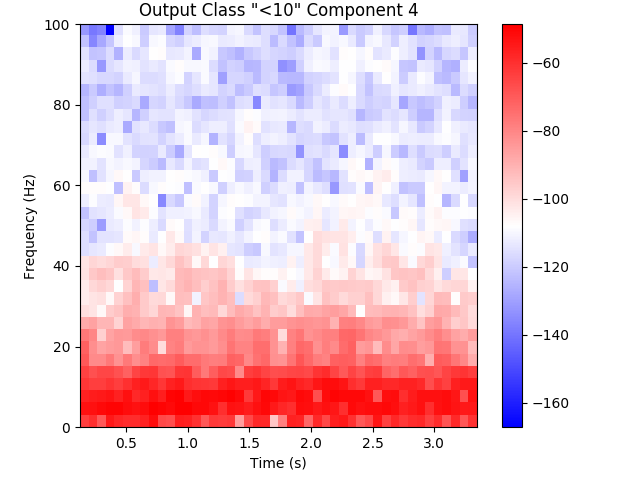
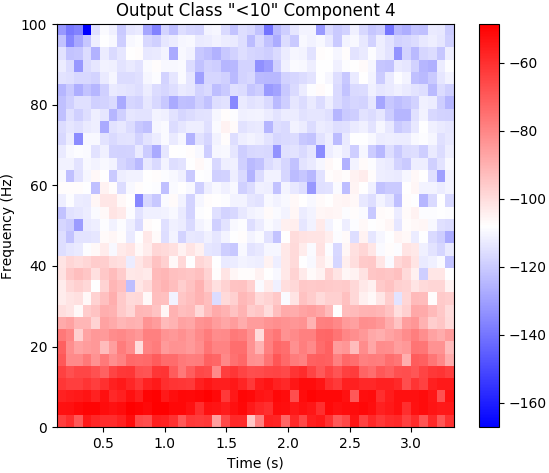
Everything but the font size of Fig 4

diff --git a/papers/nature_sci_reports/sci_reports.tex b/papers/nature_sci_reports/sci_reports.tex
@@ -42,7 +42,7 @@ Machine learning (ML) has been used in brain computer interfaces (BCIs), includi
 An advantage of this approach is that expert knowledge about the data can help circumvent relatively poor signal quality and encourage ML models to distinguish between classes using established correlates. However, this comes with potential bias of expert knowledge, and the underlying assumptions it may reinforce. In contrast, `deep' ML models can achieve many of the stages of the pipeline intrinsically, and consider potentially unknown correlates. We propose two new DNN architectures, the first labelled SCNN is a mainly convolutional neural network (CNN), and the second labelled Ra-SCNN is an augmented SCNN network that employs a recurrent layer and attention mechanism. They are both outlined in figure \ref{fig:archs}, and detailed below. Both networks are trained with raw single trials, that exploit the pipeline typically used for BCIs. Here they are trained to predict the age of normally developing (in terms of speech abilities) children aged 4-18, performing at least two of three tasks commonly used to evaluate speech and language development. They are evaluated with single trials of subjects unseen during training. This training and evaluation context is established to encourage the DNNs to make predictions on the grounds of detected differences in the development of speech and/or language.
 
 \begin{figure}[ht]
-  \centering\includegraphics[width=0.5\linewidth]{pipeline.jpeg}
+  \centering\includegraphics[width=0.5\linewidth]{pipeline.jpg}
    \caption{This diagram outlines the steps we perform to compare the feature-based and end-to-end approaches. MEG and audio recordings are used with the feature-based approach to benchmark the end-end-end models using raw MEG. The best end-to-end model is then interrogated to reveal how decisions are made.}
  \label{fig:proc_stages}
 \end{figure}
@@ -56,7 +56,7 @@ We compare the performance of a wide-range of classifiers, including our propose
 \begin{figure}[t]
   \begin{minipage}{0.47\textwidth}
     \centering\includegraphics[width=\linewidth]{SCNN_architecture.png}
-    \subcaption{Spatial summary convolutional network (SCNN). Processing flows from bottom to top, with the grey array representing a single trial. Each trial has $C$ channels and $T$ samples (where for our primary dataset: $C=151$ and $T=400$). The architecture is broken down into three stages, a {\em Spatial Summary} stage that performs convolutions exclusively across channels at each timepoint, thus not impacting the number of samples (the second dimension $T$ remains unchanged). Likewise, the {\em Temporal Filtering} stage performs convolutions exclusively across the time dimension. The output stage flattens the resulting output of the previous stages and uses a feed-forward network for final classification. \newadd{The colours are used to distinguish between sequences produced as a result of different learned convolution kernels at each stage.}}
+    \subcaption{Spatial summary convolutional network (SCNN). Processing flows from bottom to top, with the grey array representing a single trial. Each trial has $C$ channels and $T$ samples (where for our primary dataset: $C=151$ and $T=400$). The architecture is broken down into three stages, a {\em Spatial Summary} stage that performs convolutions exclusively across channels at each timepoint, thus not impacting the number of samples (the second dimension $T$ remains unchanged). Likewise, the {\em Temporal Filtering} stage performs convolutions exclusively across the time dimension. The output stage flattens the resulting output of the previous stages and uses a feed-forward network for final classification. The colours are used to distinguish between sequences produced as a result of different learned convolution kernels at each stage.}
     \label{fig:scnn_arch}
   \end{minipage}
   \hspace*{\fill} % separation between the subfigures
@@ -124,29 +124,34 @@ With the performance above, it is clear that these architectures show some promi
  \label{tab:task_results}
 \end{table}
 
-Both of these networks comfortably exceed the level of chance, and the $38.13\%$ majority class threshold (as there is an imbalance of classes, which is addressed during training with a penalized loss). These accuracies are not as impressive as the age prediction task, but they do have performance that is remarkably similar to each other. A Wilcoxon signed-rank test shows these distributions to be similar with $W_{9, two-sided}=9.0$ and $p=0.8125$. Therefore, the weights (and thus features) learned to accurately perform the age classification task are usable to predict a separate speech task independent of age. We see this as evidence that the features are in some way speech related, rather than expressing characteristics correlated only to age.
+Both of these networks comfortably exceed the level of chance, and the $38.13\%$ majority class threshold (as there is an imbalance of classes, which is addressed during training with a penalized loss). These accuracies are not as impressive as the age prediction task, but they do have performance that is remarkably similar to each other. A paried Wilcoxon test shows these distributions to be similar with $V_{4, two-sided}=9.0$ and $p=0.8125$. Therefore, the weights (and thus features) learned to accurately perform the age classification task are usable to predict a separate speech task independent of age. We see this as evidence that the features are in some way speech related, rather than expressing characteristics correlated only to age.
 
 \subsection*{Model Activations}
 
 Maximizing the input at some point in the network with respect to an output downstream in the network (both intermediate nodes and final outputs) can provide insight into the preferred characteristics of incoming data. This approach has been used previously to show the characteristics of individual layers, and preferred input for image classification networks \cite{Yosinski2015}. We employed artificial input maximization using the model with the highest single fold test accuracy to minimize creating artificial data that had characteristics that were not pertinent to classifying age. This resulted in using the SCNN model trained with the second fold of the raw MEG dataset. Figure \ref{fig:max_components} demonstrates how the 151 MEG channels (bilinear interpolation over expected channel locations on scalp image)  maximize three spatial filters at the final spatial summary layer. Correspondingly, figure \ref{fig:max_spectrograms} shows the spectral content of maximizing these same spatial features with respect to the two output classes, juxtaposed with high confidence real activations of again the same spatial features.
 
 \begin{figure}[h!]
-  \begin{minipage}{0.31\textwidth}
+  \begin{minipage}{0.28\textwidth}
     \centering\includegraphics[width=\linewidth]{max_act/4.png}
-     \subcaption{}
+     \subcaption{Component 4}
     \label{fig:component_4}
   \end{minipage}
   \hspace*{\fill} % separation between the subfigures
-  \begin{minipage}{0.31\textwidth}
+  \begin{minipage}{0.28\textwidth}
     \includegraphics[width=\linewidth]{max_act/28.png}
-     \subcaption{}
+     \subcaption{Component 28}
     \label{fig:component_28}
   \end{minipage}
    \hspace*{\fill} % separation between the subfigures
-   \begin{minipage}{0.31\textwidth}
+   \begin{minipage}{0.28\textwidth}
     \includegraphics[width=\linewidth]{max_act/49.png}
-    \subcaption{}
+    \subcaption{Component 49}
     \label{fig:component_49}
+  \end{minipage}
+  \hspace*{\fill} % separation between the subfigures
+   \begin{minipage}{0.05\textwidth}
+    \includegraphics[width=\linewidth]{topomap_cb.png}
+    \label{fig:cb}
   \end{minipage}
   \caption[textfind]{Three examples of input channel relative intensities, interpolated using expected channel locations, that maximized the output of the spatial stage for three different components (kernels) at this stage. Components (a) and (b) show a common pattern of spatial mixing, with a particularly strong relative intensity localized around channels near the inferior frontal or perhaps dorsolateral prefrontal regions. This region is the only somewhat consistently strongly weighted region that is not exagerated by the edge effects of the interpolation. Component (c) shows a very nearly inverse set of weights compared to (a), in addition to what could be strong weights over the visual cortex (although edge effects of the interpolation make this hard to say). The plots are constructed using bilinear interpolation so that they are mapped across expected channel locations. These plots were made using the MNE python library (available at \url{https://www.martinos.org/mne/stable/index.html})} \label{fig:max_components}
 \end{figure}
@@ -156,7 +161,7 @@ Maximizing the input at some point in the network with respect to an output down
 
 \begin{figure}[ht]
   \caption{Power spectral density spectrograms in dB scale for data that maximizes output classes. Plots on the left represent artificially generated data that maximally activate the classes $<10$ and $>=10$ years old with respect to component 4 (figure \ref{fig:component_4}), component 28 (figure \ref{fig:component_28}) and component 49 (figure \ref{fig:component_49}). Each row of spectrograms corresponds to components 4, 28 and 49 respectively. Plots on the right show the two real datapoints that most significantly maximized the two classes for the components of their corresponding rows.}
-  \centering\includegraphics[width=\linewidth]{spectrogram_tables.png}
+  \centering\includegraphics[width=\linewidth]{spectrograms.png}
  \label{fig:max_spectrograms}
 \end{figure}
 
@@ -164,9 +169,9 @@ Throughout the learned components, there is a common patch of relative intensity
 
 The real data, unlike the artificial data, unsurprisingly are not as stationary, and do tend to show a marked change after the $t=1.5s$ mark. Again, much like the artificial data, the spectro-temporal differnces between the three components are minimal.
 
-\subsection*{Baseline Performance}
+\subsection*{Baseline Recordings}
 
-The homogeneity of the artificial signals above could be evidence that classification is relying on some non-event related signals; for example, some correlation between resting frequency and age. To consider if this is the case, we again explore the highest-accuracy fold SCNN model from above, and consider how it well it classifies baseline recordings for each test subject and each experiment task, consisting of the brief recording of subjects before the sequence of trials of each task. This is compared to the performance of subtracting a simple model of baseline activity, made by averaging the baselines across all tasks for each subject, from an accurate test trial for each subject and test condition.
+The homogeneity of the artificial signals above could be evidence that classification is relying on some non-event related signals; for example, some correlation between resting frequency and age. To consider if this is the case, we again explore the highest-accuracy fold SCNN model from above, and consider how it well it classifies baseline recordings for each test subject and each experiment task, consisting of the brief recording of subjects before the sequence of trials for each task. This is compared to the performance of subtracting a simple model of baseline activity, made by averaging the inital recordings across all tasks for each subject, from an accurate test trial for each subject and test condition.
 
 \begin{table}[h]
  \caption{Number of correct predictions when considering baseline recordings, collected for each subject and the tests they participated in. Compared to subtracting average baseline of each subject from highly confident and accurate test trials with corresponding subject and task.}
@@ -220,14 +225,12 @@ Obscuring the event gives a fairly consistent decrease in performance for at lea
  \label{tab:sec_results}
 \end{table}
 
-The results in Table \ref{tab:sec_results} are meant as a verification that SCNN and its attention augmented counterpart are more generally applicable to MEG/EEG data and achieve results that are comparable to state-of-the-art end-to-end machine learning approaches. At first glance there are some increases in classification accuracy, although the augmented SCNN model performs relatively poorly with the augmented dataset. Performing paired Wilcoxon signed-rank tests of both SCNN and Ra-SCNN models (excluding the dramatic outlier) with respect to the un-augmented CNN as FBCSP implementation, shows no significant improvement in performance. It appears that these models are at least as good as a comparable state-of-the-art implementation in a completely unrelated task.
+The results in Table \ref{tab:sec_results} are meant as a verification that SCNN and its attention augmented counterpart are more generally applicable to MEG/EEG data and achieve results that are comparable to state-of-the-art end-to-end machine learning approaches. At first glance there are some increases in classification accuracy, although the augmented SCNN model performs relatively poorly with the augmented dataset. Performing paired Wilcoxon signed-rank tests of both SCNN and Ra-SCNN models with respect to the un-augmented CNN as FBCSP implementation, shows no significant improvement in performance. Although the SCNN model with cropping augmentation does show a significant decrease in performance with respect to the benchmark with $V_{8, one-sided}=45$ and $p<0.002$. It appears that these models are at least as good as a comparable state-of-the-art implementation in a completely unrelated task, excluding the SCNN with cropping augmentations.
 
 
 \section*{Discussion}
 
 This work proposes two novel deep neural network architectures that can distinguish between children at different levels of speech development with at least equivalent if not greater accuracy than a feature based-pipeline. We provide evidence that suggest that it is unlikely that classification decisions are made as a result of activity unrelated to the tasks themselves. It is also unlikely that decisions are solely made based on some age-correlated ERFs. The advantage of using these networks is their consolidated training process (they are entirely trained through gradient-descent based optimization without intermediate steps) and as greater steps towards explainable neural networks are made, their parameters may have direct and interpretable connections to the task they are employed against. They also perform quite comparably against the state-of-the-art in a completely separate BCI classification task, making them a general-purpose approach to many encephalographic data.
-
-%Although some models succeed in classifying the examples in the primary dataset, many seemingly reasonable models (in terms of number and types of parameters) during hyperparameter searches and initial investigations failed to perform better than random chance. This implies that the hyperparameter selection is of critical importance, and in many cases it will not suffice to try incompatible architectures with parameters that are just {\em good enough}. We see this as further indication that the application of deep-learning here needs continued development to establish a tool-set of appropriate architectures and stronger guiding principles for this type of data.
 
 Towards determining if the /{\em pah}/ and /{\em pah tah kah}/ vocalization trials or the verb generation experiment trials had a greater impact on performance in the end-to-end learning, we trained the raw SCNN model using these datasets separately. Interestingly they seemed to have difficulty outperforming random chance on their own (in earlier model exploration). This suggests that despite being slightly different experiments perhaps at the very least the increase in training data is crucial to enabling the performance of these more powerful ML models.
 

diff --git a/python/visualization.py b/python/visualization.py
@@ -143,8 +143,8 @@ def save_viz_scnn(args, activations, model):
             im, cn = plot_topomap(topomaps[..., i], chans, show=True)
             save_loc = args.save_viz / spatial_out.name
             save_loc.mkdir(parents=True, exist_ok=True)
-            plt.title('Spatial Component {0}'.format(i))
-            # plt.colorbar()
+            # plt.title('Spatial Component {0}'.format(i))
+            plt.colorbar()
             plt.savefig(str(save_loc / 'component_{0}.png'.format(i)))
             plt.clf()
 
